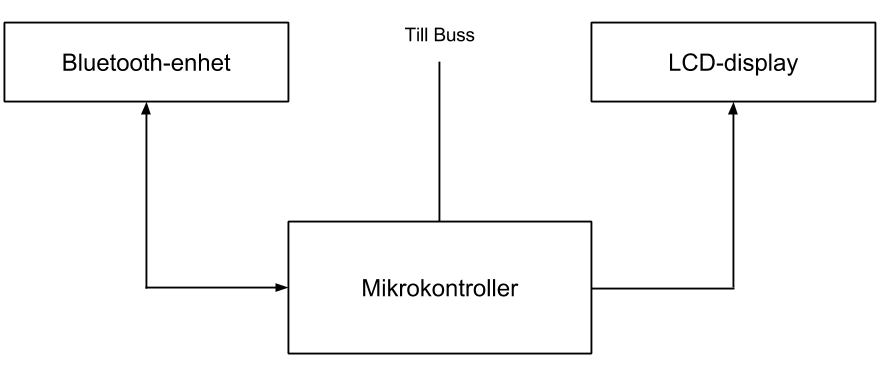
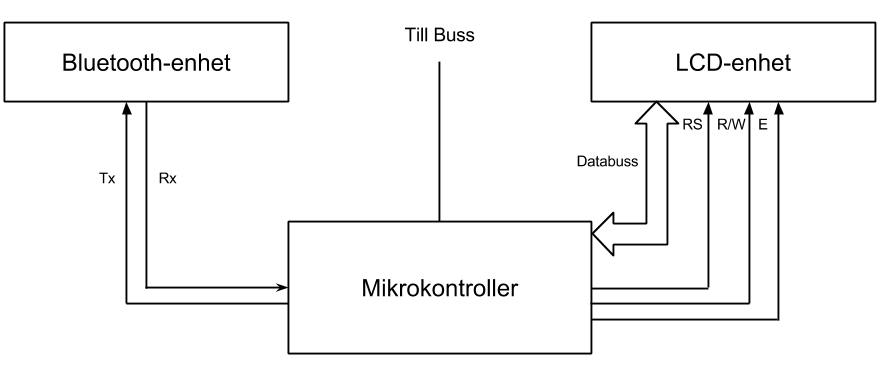
Fortsatte med LCD

diff --git a/Tek-Dok/komm.tex b/Tek-Dok/komm.tex
@@ -1,17 +1,24 @@
 \section{Kommunikationsenhet}
 Kommunikationsenheten är robotens gränssnitt för interaktion med omvärlden och har två uppgifter. Den ska
 \begin{itemize}
-\item agera som ett gränssnitt mot LCD-displayen och möjliggöra att alla delsystem kan skriva ut information på den.
+\item agera som ett gränssnitt mot LCD-skärmen och möjliggöra att alla delsystem kan skriva ut information på den.
 \item hantera den seriella kommunikationen över Bluetooth och möjliggöra att roboten kan skicka och ta emot information till och från PC-gränssnittet.
 \end{itemize}
 
 Figur \ref{fig:kommblock} ger en övergripande bild över kommunikationsenhetens beståndsdelar.
 
-\nyBild{Block-komm.png}{Blockschema över kommunikationsenheten.}{kommblock}{0.7}
+\nyBild{Block-komm.png}{Blockschema över kommunikationsenheten.}{kommblock}{0.9}
 
 \subsection{LCD-gränssnitt}
-LCD-displayen som är monterad på kommunikationsenheten är av modellen JM162A. Den styrs genom en parallell databuss och ett antal styrsignaler från kommunikationsenhetens processor till en intern processor i LCD-enheten. Skärmen har två rader med 16 tecken vardera.
+LCD-skärmen som är monterad på kommunikationsenheten är av modellen JM162A. Den styrs genom en parallell databuss och ett antal styrsignaler från kommunikationsenhetens processor till en intern processor i LCD-enheten. Skärmen har två rader med 16 tecken vardera.
 
+Information skickas till LCD-enheten antingen som instruktioner eller data. Styrsignalernas koppling visas i figur \ref{fig:kommblock}. \verb|RS| styr om databussens värde tolkas som instruktion eller data, \verb|R/W| styr ifall information ska skrivas eller läsas, och styrsignalen \verb|E| aktiverar överföring av information. Genom att låta \verb|E| gå från hög till låg läser LCD-enheten in värdet som finns på databussen, antingen som en instruktion som ska utföras (om \verb|RS| är låg) eller som data som ska lagras i LCD-enhetens minne (om \verb|RS| är hög). Figur \ref{fig:lcdinit} visar vilka kommandon som skickas för att initiera LCD-enheten.
+
+\nyBild{lcd-init.png}{Flödesschema över initialisering av LCD-enhet. Kommandon som skickas är kursiverade och har värdena på DB (i binär notation), RS och R/W som parametrar.}{lcdinit}{0.4}
+
+Efter denna initiering kan data skrivas ut på skärmen genom att sätta \verb|RS| till 1 och skriva ut ASCII-koden\footnote{American Standard Code for Information Interchange, ett sätt att koda grundläggande alfanumeriska tecken och andra symboler.} för en symbol på databussen. Genom att först skicka en instruktion för att ställa in vilken adress i dataminnet som ska skrivas till härnäst kan man välja var en symbol ska skrivas ut, en viss adress i dataminnet svarar mot en position på skärmen.
+
+Alla delsystem kan skriva ut information på skärmen genom ett gemensamt bibliotek, \textit{lcd\_interface}, som beskrivs närmare i avsnitt \ref{sec:lcd_interface}.
 
 
 \subsection{Seriell kommunikation över Bluetooth}

diff --git a/Tek-Dok/gemensam.tex b/Tek-Dok/gemensam.tex
@@ -36,3 +36,6 @@ För att skicka data används funktionen \verb|usart_write_byte| som undersöker
 
 \subsection{Intern buss}
 \label{sec:bus}
+
+\subsection{Utmatning på LCD-display}
+\label{sec:lcd_interface}
